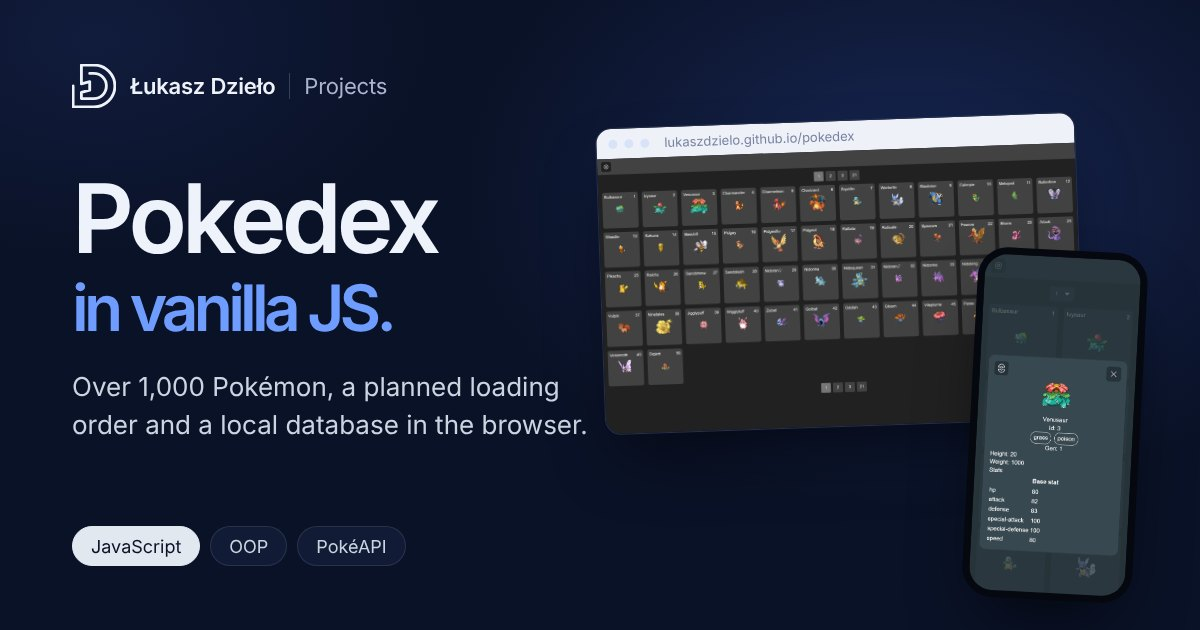
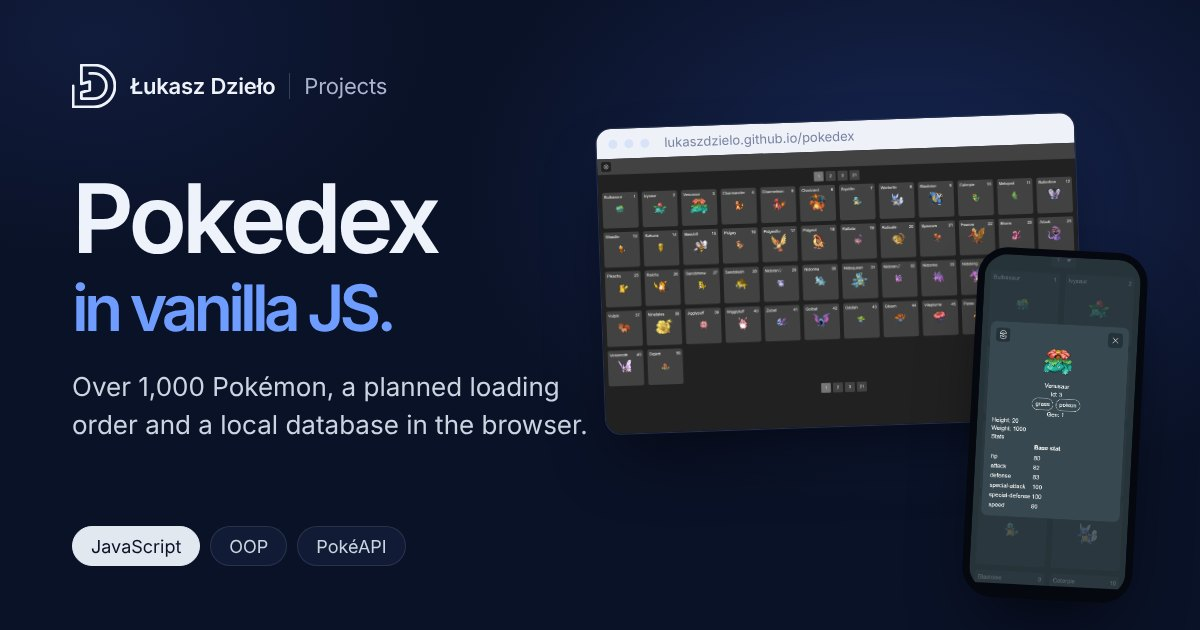
Pokedex: crop the phone screenshot to the Pokemon card
The old shot was the whole page by mistake. Now it is one phone screen
(850x1794) with the card and the dimmed list behind it. Captions, alt
texts and the OG images updated.

Changed region(s): [[0.8017, 0.5429, 0.8942, 0.8746], [0.8017, 0.8746, 0.925, 0.9651]]

diff --git a/app/components/projects/ProjectsGallery.vue b/app/components/projects/ProjectsGallery.vue
@@ -115,7 +115,7 @@ onBeforeUnmount(() => lockScroll(false))
           :class="shot.device === 'phone' ? 'mx-auto max-w-md overflow-y-auto overscroll-contain rounded-2xl' : 'flex items-center justify-center'"
           @click.self="close"
         >
-          <!-- Telefon: zrzut to cała strona, więc przewija się w podglądzie -->
+          <!-- Telefon: wysoki zrzut (np. cała strona) przewija się w podglądzie -->
           <CommonPicture
             v-if="shot.device === 'phone'"
             :src="shot.src"

diff --git a/content/en/projects/2024/pokedex/index.md b/content/en/projects/2024/pokedex/index.md
@@ -31,8 +31,8 @@ gallery:
     caption: The list – more than 1,000 Pokémon, with the page number saved in the URL (?p=)
   - src: /projects/2024/pokedex/phone.webp
     device: phone
-    alt: Pokedex on a phone – the whole page
-    caption: Phone – the list in two columns, with a page picker at the bottom
+    alt: Pokedex on a phone – a Pokémon card
+    caption: Phone – a Pokémon card open over the two-column list
   - src: /projects/2024/pokedex/pokemon-card.webp
     alt: The Pokémon details window
     caption: Pokémon card – name, types and generation come straight from memory, stats are loaded from the API

diff --git a/content/pl/projects/2024/pokedex/index.md b/content/pl/projects/2024/pokedex/index.md
@@ -31,8 +31,8 @@ gallery:
     caption: Lista – ponad 1000 pokemonów, numer strony zapisany w adresie (?p=)
   - src: /projects/2024/pokedex/phone.webp
     device: phone
-    alt: Pokedex na telefonie – cała strona
-    caption: Telefon – lista w dwóch kolumnach, na dole wybór strony z listy
+    alt: Pokedex na telefonie – karta pokemona
+    caption: Telefon – karta pokemona otwarta nad listą w dwóch kolumnach
   - src: /projects/2024/pokedex/pokemon-card.webp
     alt: Okno szczegółów pokemona
     caption: Karta pokemona – nazwa, typy i generacja od razu z pamięci, statystyki dociągane z API
